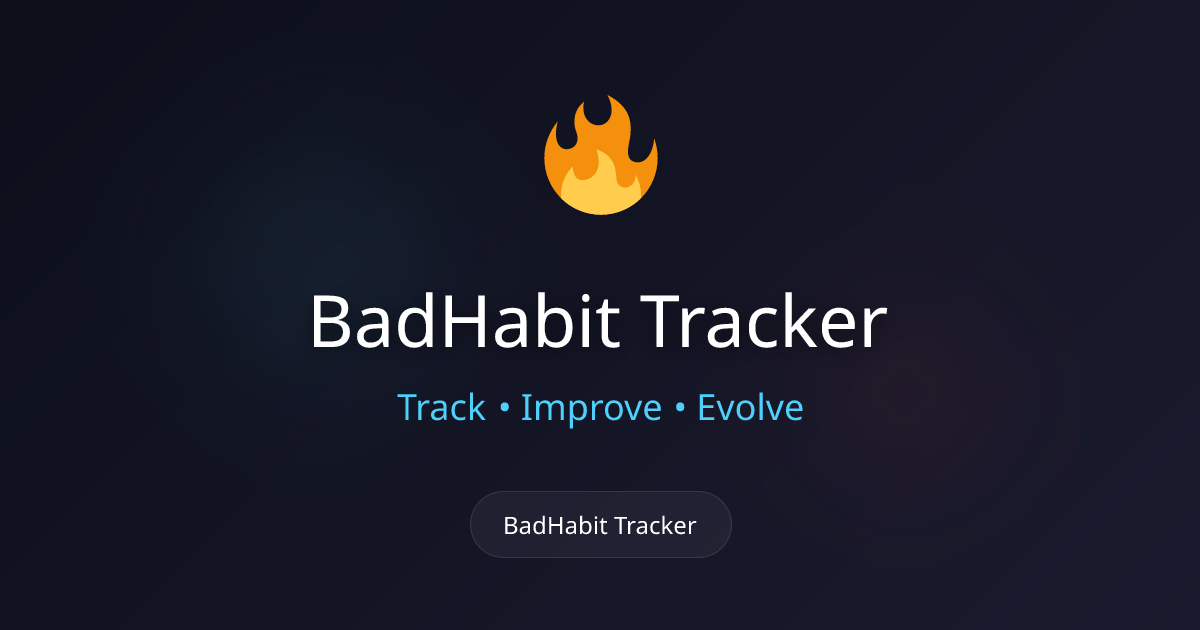
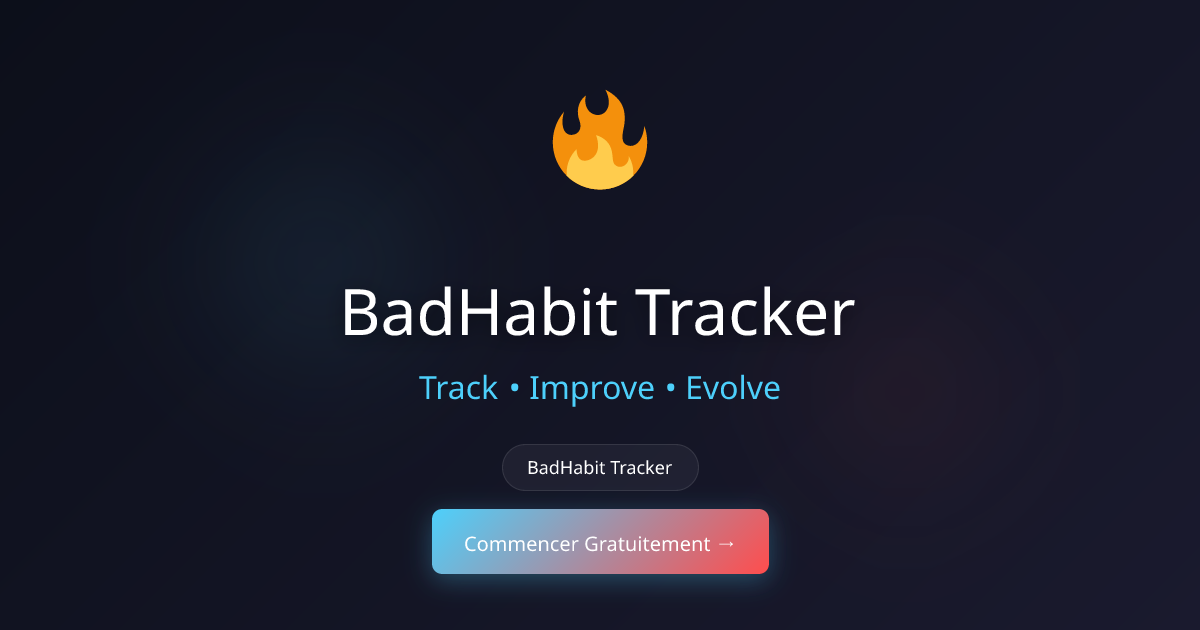
fix: improve vertical centering in OG image

diff --git a/app/api/og/route.tsx b/app/api/og/route.tsx
@@ -76,15 +76,15 @@ export async function GET(request: NextRequest) {
                             flexDirection: 'column',
                             alignItems: 'center',
                             justifyContent: 'center',
-                            padding: '80px',
+                            padding: '60px 80px 80px 80px',
                             zIndex: 1,
                         }}
                     >
                         {/* Logo/Emoji */}
                         <div
                             style={{
-                                fontSize: '120px',
-                                marginBottom: '40px',
+                                fontSize: '100px',
+                                marginBottom: '30px',
                             }}
                         >
                             🔥
@@ -93,11 +93,11 @@ export async function GET(request: NextRequest) {
                         {/* Titre principal */}
                         <div
                             style={{
-                                fontSize: title.length > 30 ? '56px' : '72px',
+                                fontSize: title.length > 30 ? '52px' : '64px',
                                 fontWeight: 'bold',
                                 color: '#ffffff',
                                 textAlign: 'center',
-                                marginBottom: '20px',
+                                marginBottom: '16px',
                                 maxWidth: '1000px',
                                 lineHeight: 1.2,
                                 textShadow: '0 4px 20px rgba(0, 0, 0, 0.5)',
@@ -109,7 +109,7 @@ export async function GET(request: NextRequest) {
                         {/* Sous-titre */}
                         <div
                             style={{
-                                fontSize: '36px',
+                                fontSize: '32px',
                                 color: '#4DD0FB',
                                 textAlign: 'center',
                                 fontWeight: '500',
@@ -122,20 +122,39 @@ export async function GET(request: NextRequest) {
                         {/* Badge branding */}
                         <div
                             style={{
-                                marginTop: '60px',
+                                marginTop: '35px',
                                 display: 'flex',
                                 alignItems: 'center',
                                 gap: '12px',
-                                padding: '16px 32px',
+                                padding: '10px 24px',
                                 background: 'rgba(255, 255, 255, 0.05)',
                                 borderRadius: '100px',
                                 border: '1px solid rgba(255, 255, 255, 0.1)',
                                 backdropFilter: 'blur(10px)',
                             }}
                         >
-                            <div style={{ fontSize: '24px', color: '#ffffff' }}>
+                            <div style={{ fontSize: '18px', color: '#ffffff' }}>
                                 BadHabit Tracker
                             </div>
+                        </div>
+
+                        {/* Call-to-Action Button */}
+                        <div
+                            style={{
+                                marginTop: '18px',
+                                display: 'flex',
+                                alignItems: 'center',
+                                justifyContent: 'center',
+                                padding: '12px 32px',
+                                background: 'linear-gradient(135deg, #4DD0FB 0%, #FF4D4D 100%)',
+                                borderRadius: '10px',
+                                fontSize: '20px',
+                                fontWeight: 'bold',
+                                color: '#ffffff',
+                                boxShadow: '0 6px 24px rgba(77, 208, 251, 0.3)',
+                            }}
+                        >
+                            Commencer Gratuitement →
                         </div>
                     </div>
                 </div>
